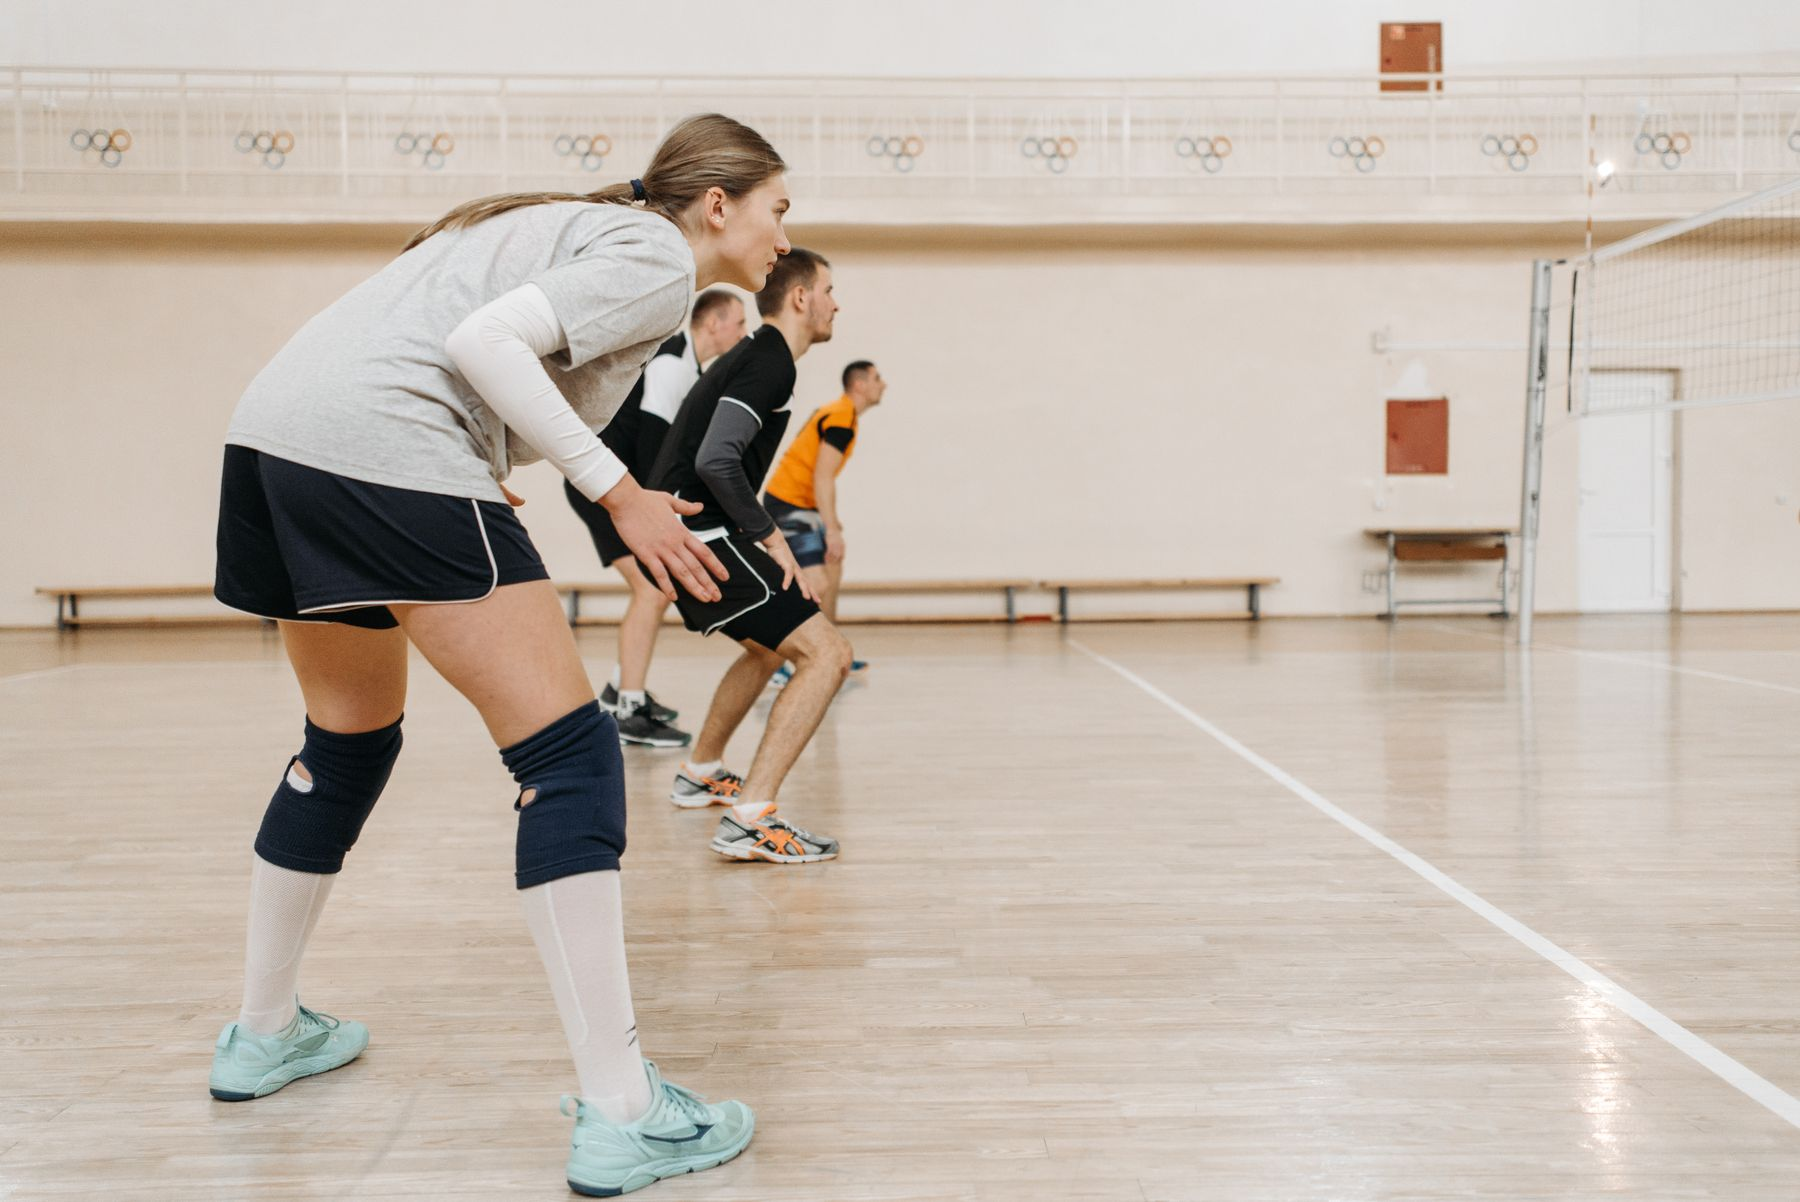
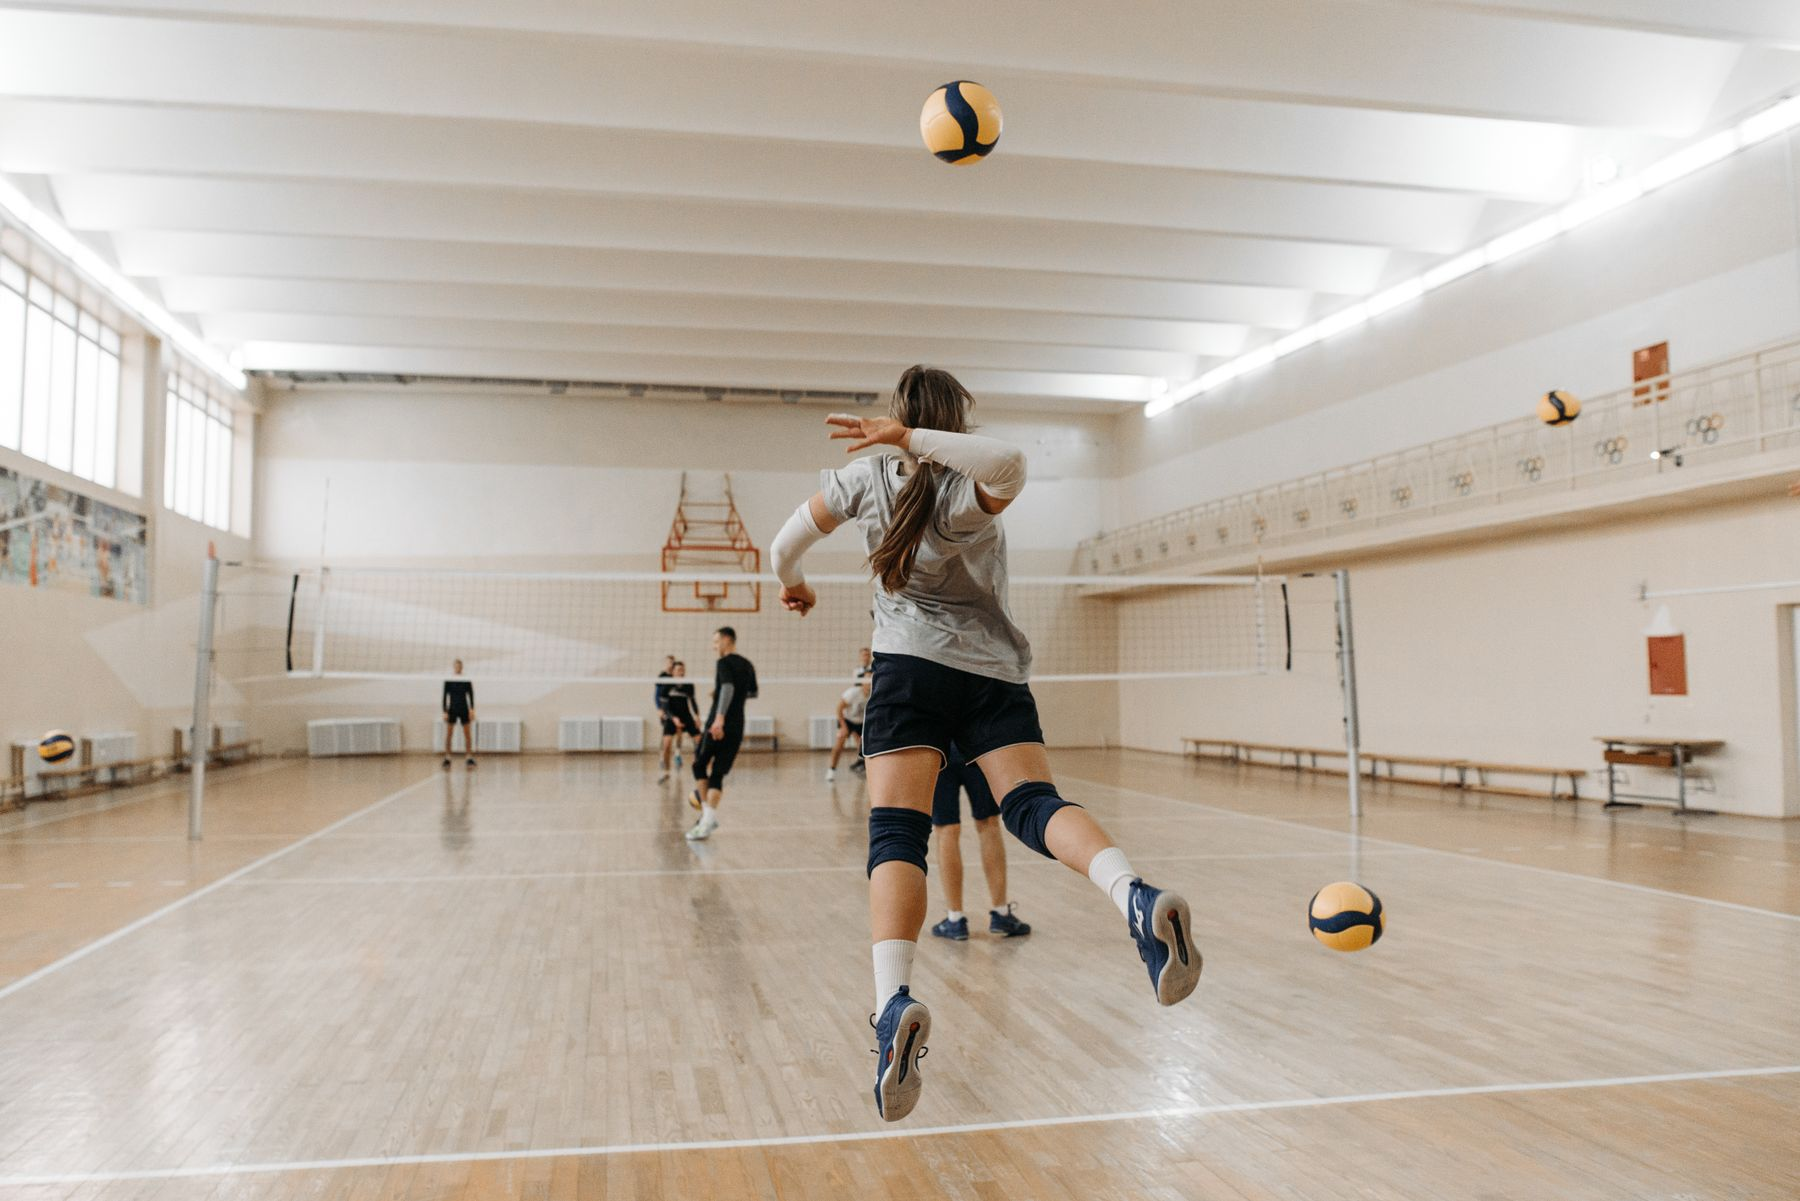
Replace throwball image with girls playing on court.

diff --git a/src/lib/sports-visuals.ts b/src/lib/sports-visuals.ts
@@ -94,7 +94,7 @@ export const SPORT_VISUALS: SportVisual[] = [
     secondary: '#1a0612',
     glow: 'rgba(244,114,182,0.4)',
     image: '/sports/throwball.jpg',
-    imageAlt: 'Athlete ready on the court for throwball',
+    imageAlt: 'Girls playing throwball on the court',
     motif: 'court',
     venue: 'TAPMI Ground',
     detail:
